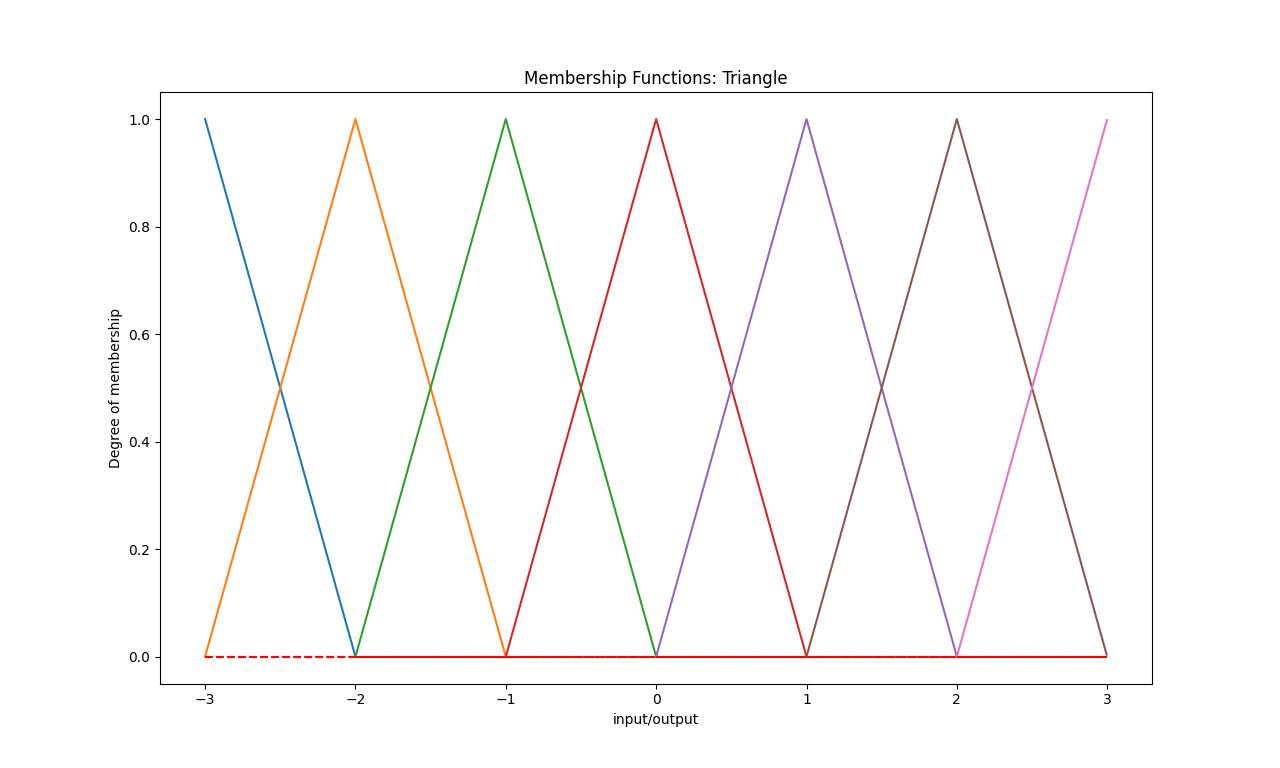
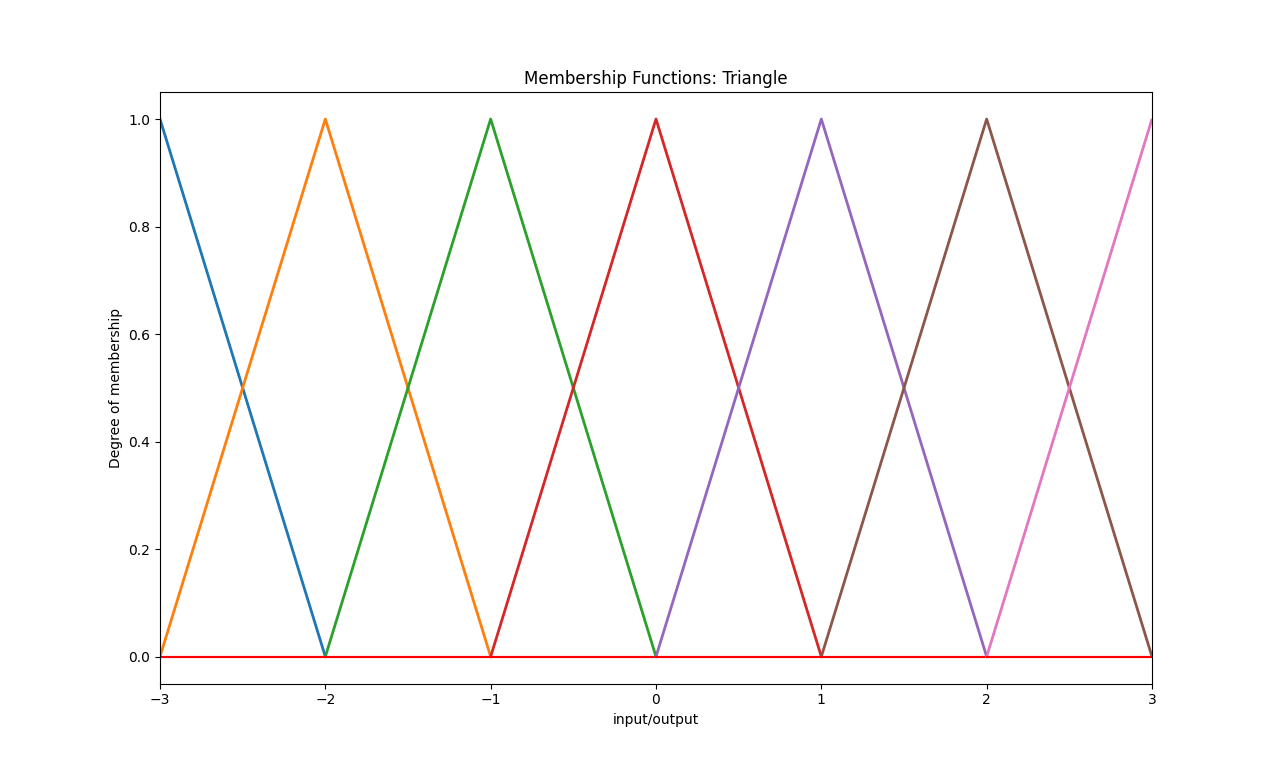
feat: The changes are listed following:
- Validate trapezoid and gaussian membership functions cfg;
- Optimize membership function plot logic

diff --git a/src/membership.cc b/src/membership.cc
@@ -1,5 +1,7 @@
+#include "fmt/core.h"
 #include "fuzzy/membership.h"
 #include <cmath>
+#include <iostream>
 #include <stdexcept>
 
 using namespace fc;
@@ -40,7 +42,7 @@ std::optional<scalar> Membership::calculate(const scalar input, const std::vecto
 
 Range Membership::calculateRange(const membershipType type, const std::vector<scalar>& param_set) {
     Range range;
-    scalar derivation;
+    scalar mean, derivation;
     switch (type) {
         case membershipType::Triangle:
             range = Range{param_set.at(0), param_set.at(2)};
@@ -49,8 +51,9 @@ Range Membership::calculateRange(const membershipType type, const std::vector<sc
             range = Range{param_set.at(0), param_set.at(3)};
             break;
         case membershipType::Gaussian:
+            mean = param_set.at(0);
             derivation = param_set.at(1);
-            range = Range{-3.0 * derivation, 3.0 * derivation};
+            range = Range{-3.0 * derivation + mean, 3.0 * derivation + mean};
             break;
         case membershipType::None:
             /* fall through */
@@ -80,8 +83,16 @@ void Membership::setMembershipParam(const membershipType type,
         param_set.emplace_back(input_params[idx - 1]);
         // store the params set by group according to membership function required params size
         if (idx % size == 0) {
-            dbgmsg("[membership %s] id: %d, (%f, %f, %f)",
-                this->getName().data() , idx / size, param_set.at(0), param_set.at(1), param_set.at(2));
+            std::string s = fmt::format("[membership {}] id:{}, (",this->getName().data() , idx / size);
+            for (auto [i, elem] = std::tuple{1, param_set.begin()}; elem != param_set.end(); i++, elem++) {
+                s.append(fmt::format("{:.2f}",*elem));
+                if (i == size) {
+                    s.append(")\n");
+                } else {
+                    s.append(", ");
+                }
+            }
+            dbgmsg("%s", s.c_str());
             params_.emplace_back(param_set);
             params_range_.emplace_back(calculateRange(type, param_set));
             param_set.clear();

diff --git a/src/fuzzy_logic.cc b/src/fuzzy_logic.cc
@@ -149,27 +149,33 @@ void Fuzzification::plotMembershipFunctions(void) {
 
     plt::figure_size(1280, 768);
     size_t discourse_size = membership_->getDiscourseSize();
+    for (size_t id = 0; id < discourse_size; id++) {
+        const auto params = membership_->getParamSet(id);
+        const auto [minimum, maximum] = membership_->getRange(id);
+        double dx = (maximum - minimum) / n;
+        for (int i = 0; i < n; i++) {
+            x.at(i) = minimum + i * dx;
+            y.at(i) = membership_->calculate(x.at(i), params).value_or(0);
+        }
+        plt::plot(x, y, {{"linewidth", "2.0"}});
+        plt::plot(x, w,"r");
+    }
+    plt::ylabel("Degree of membership");
+    plt::xlabel("input/output");
+    plt::xlim(-3.0, 3.0);
+
     switch (membership_->getType()) {
         case membershipType::Triangle:
-            for (size_t id = 0; id < discourse_size; id++) {
-                const auto params = membership_->getParamSet(id);
-                const auto [minimum, maximum] = membership_->getRange(id);
-                double dx = (maximum - minimum) / n;
-                for (int i = 0; i < n; i++) {
-                    x.at(i) = minimum + i * dx;
-                    y.at(i) = membership_->calculate(x.at(i), params).value_or(0);
-                }
-                plt::plot(x, y);
-                plt::plot(x, w,"r--");
-            }
-            plt::ylabel("Degree of membership");
-            plt::xlabel("input/output");
             plt::title("Membership Functions: Triangle");
             plt::save("assets/" + getName() + "_membership_triangle.png");
             break;
         case membershipType::Trapezoid:
+            plt::title("Membership Functions: Trapezoid");
+            plt::save("assets/" + getName() + "_membership_trapezoid.png");
             break;
         case membershipType::Gaussian:
+            plt::title("Membership Functions: Gaussian");
+            plt::save("assets/" + getName() + "_membership_gaussian.png");
             break;
         case membershipType::None:
             /* fall through */

diff --git a/src/demo.cc b/src/demo.cc
@@ -5,14 +5,15 @@
 #include <vector>
 
 constexpr const size_t E_PARAMS_NUM = 21;
-constexpr const size_t EC_PARAMS_NUM = 21;
-constexpr const size_t U_PARAMS_NUM = 21;
+constexpr const size_t EC_PARAMS_NUM = 28;
+constexpr const size_t U_PARAMS_NUM = 14;
 
 int main (int argc,char *argv[]) {
     FC_UNUSED(argc);
     FC_UNUSED(argv);
 
 
+    // membership triangle params
     fc::scalar e_params[E_PARAMS_NUM] = {
         -3, -3, -2,
         -3, -2, -1,
@@ -22,13 +23,31 @@ int main (int argc,char *argv[]) {
          1,  2,  3,
          2,  3,  3,
     };
-    fc::scalar ec_params[EC_PARAMS_NUM] = {};
-    fc::scalar u_params[U_PARAMS_NUM] = {};
+    // membership trapezoid params
+    fc::scalar ec_params[EC_PARAMS_NUM] = {
+        -3.0, -3.0, -2.5, -2.0,
+        -3.0, -2.5, -1.5, -1.0,
+        -2.0, -1.5, -0.5,  0.0,
+        -1.0, -0.5,  0.5,  1.0,
+         0.0,  0.5,  1.5,  2.0,
+         1.0,  1.5,  2.5,  3.0,
+         2.0,  2.5,  3.0,  3.0,
+    };
+    // membership gaussian params
+    fc::scalar u_params[U_PARAMS_NUM] = {
+        -3.0, 0.5,
+        -2.0, 0.4,
+        -1.0, 0.3,
+         0.0, 0.2,
+         1.0, 0.3,
+         2.0, 0.4,
+         3.0, 0.5,
+    };
 
     fc::FuzzyLogic fuzzy;
     fuzzy.e->init(400, false, fc::membershipType::Triangle, e_params, E_PARAMS_NUM);
-    fuzzy.ec->init(200, false, fc::membershipType::Triangle, ec_params, EC_PARAMS_NUM);
-    fuzzy.u->init(30, true, fc::membershipType::Triangle, u_params, U_PARAMS_NUM);
+    fuzzy.ec->init(200, false, fc::membershipType::Trapezoid, ec_params, EC_PARAMS_NUM);
+    fuzzy.u->init(30, true, fc::membershipType::Gaussian, u_params, U_PARAMS_NUM);
 
     size_t rows = fuzzy.e->membership_->getDiscourseSize();
     size_t cols = fuzzy.ec->membership_->getDiscourseSize();
@@ -47,6 +66,8 @@ int main (int argc,char *argv[]) {
 
     fuzzy.plotFuzzyControlSurface();
     fuzzy.e->plotMembershipFunctions();
+    fuzzy.ec->plotMembershipFunctions();
+    fuzzy.u->plotMembershipFunctions();
 
     return 0;
 }

diff --git a/include/utils/base.h b/include/utils/base.h
@@ -17,9 +17,11 @@ namespace fc {
 
 
 #ifdef FC_USE_DEBUG_MSG
-#define dbgmsg(fmt, ...) printf("[DEBUG]" fmt "\n", ##__VA_ARGS__)
+#define dbgmsg(fmt, ...) printf("[DEBUG]" fmt, ##__VA_ARGS__)
+#define dbgmsgln(fmt, ...) printf("[DEBUG]" fmt "\n", ##__VA_ARGS__)
 #else
 #define dbgmsg(fmt, ...)
+#define dbgmsgln(fmt, ...)
 #endif
 
 /* basic type definition */
